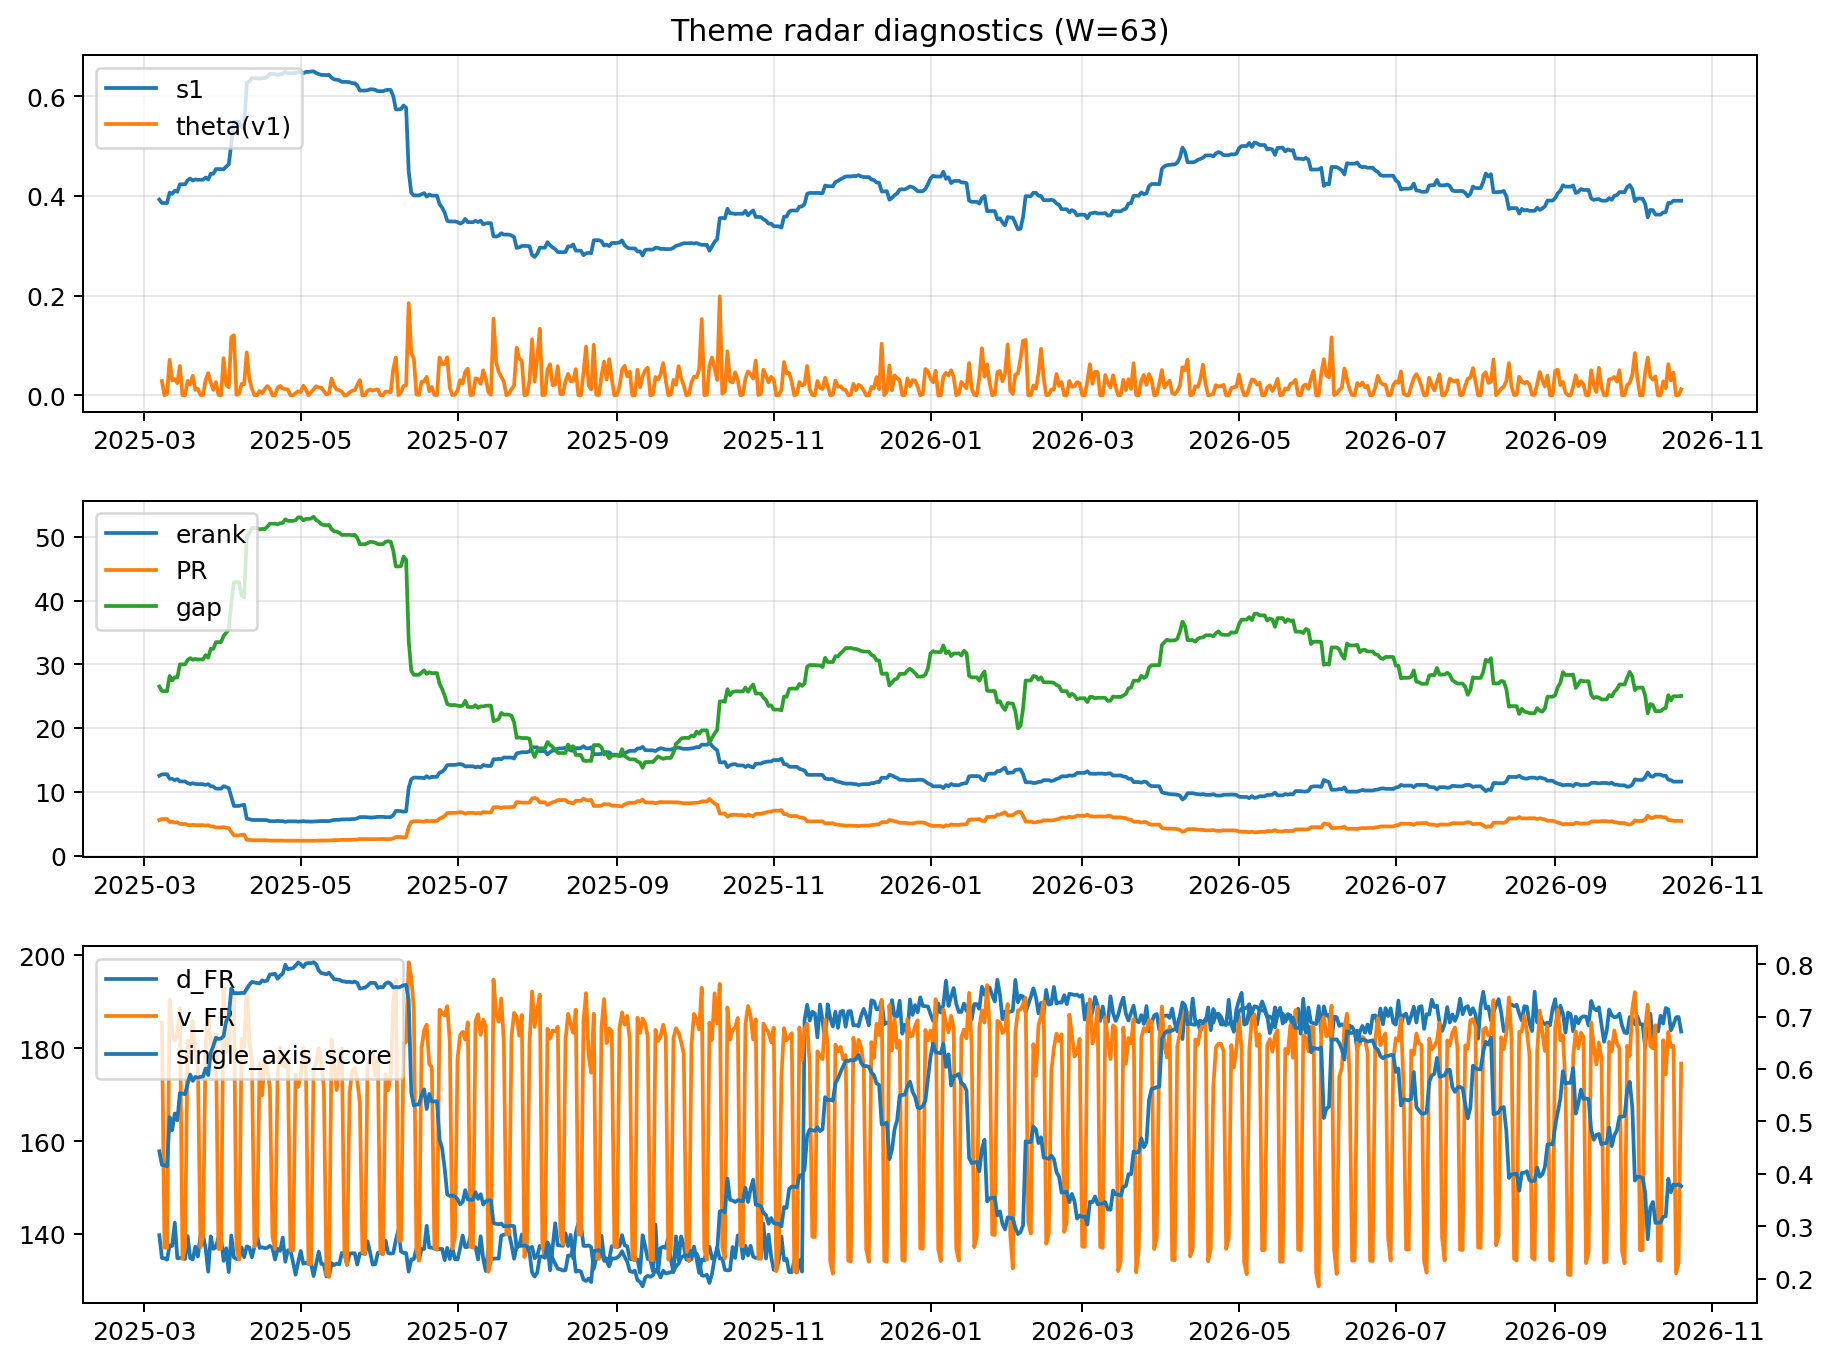
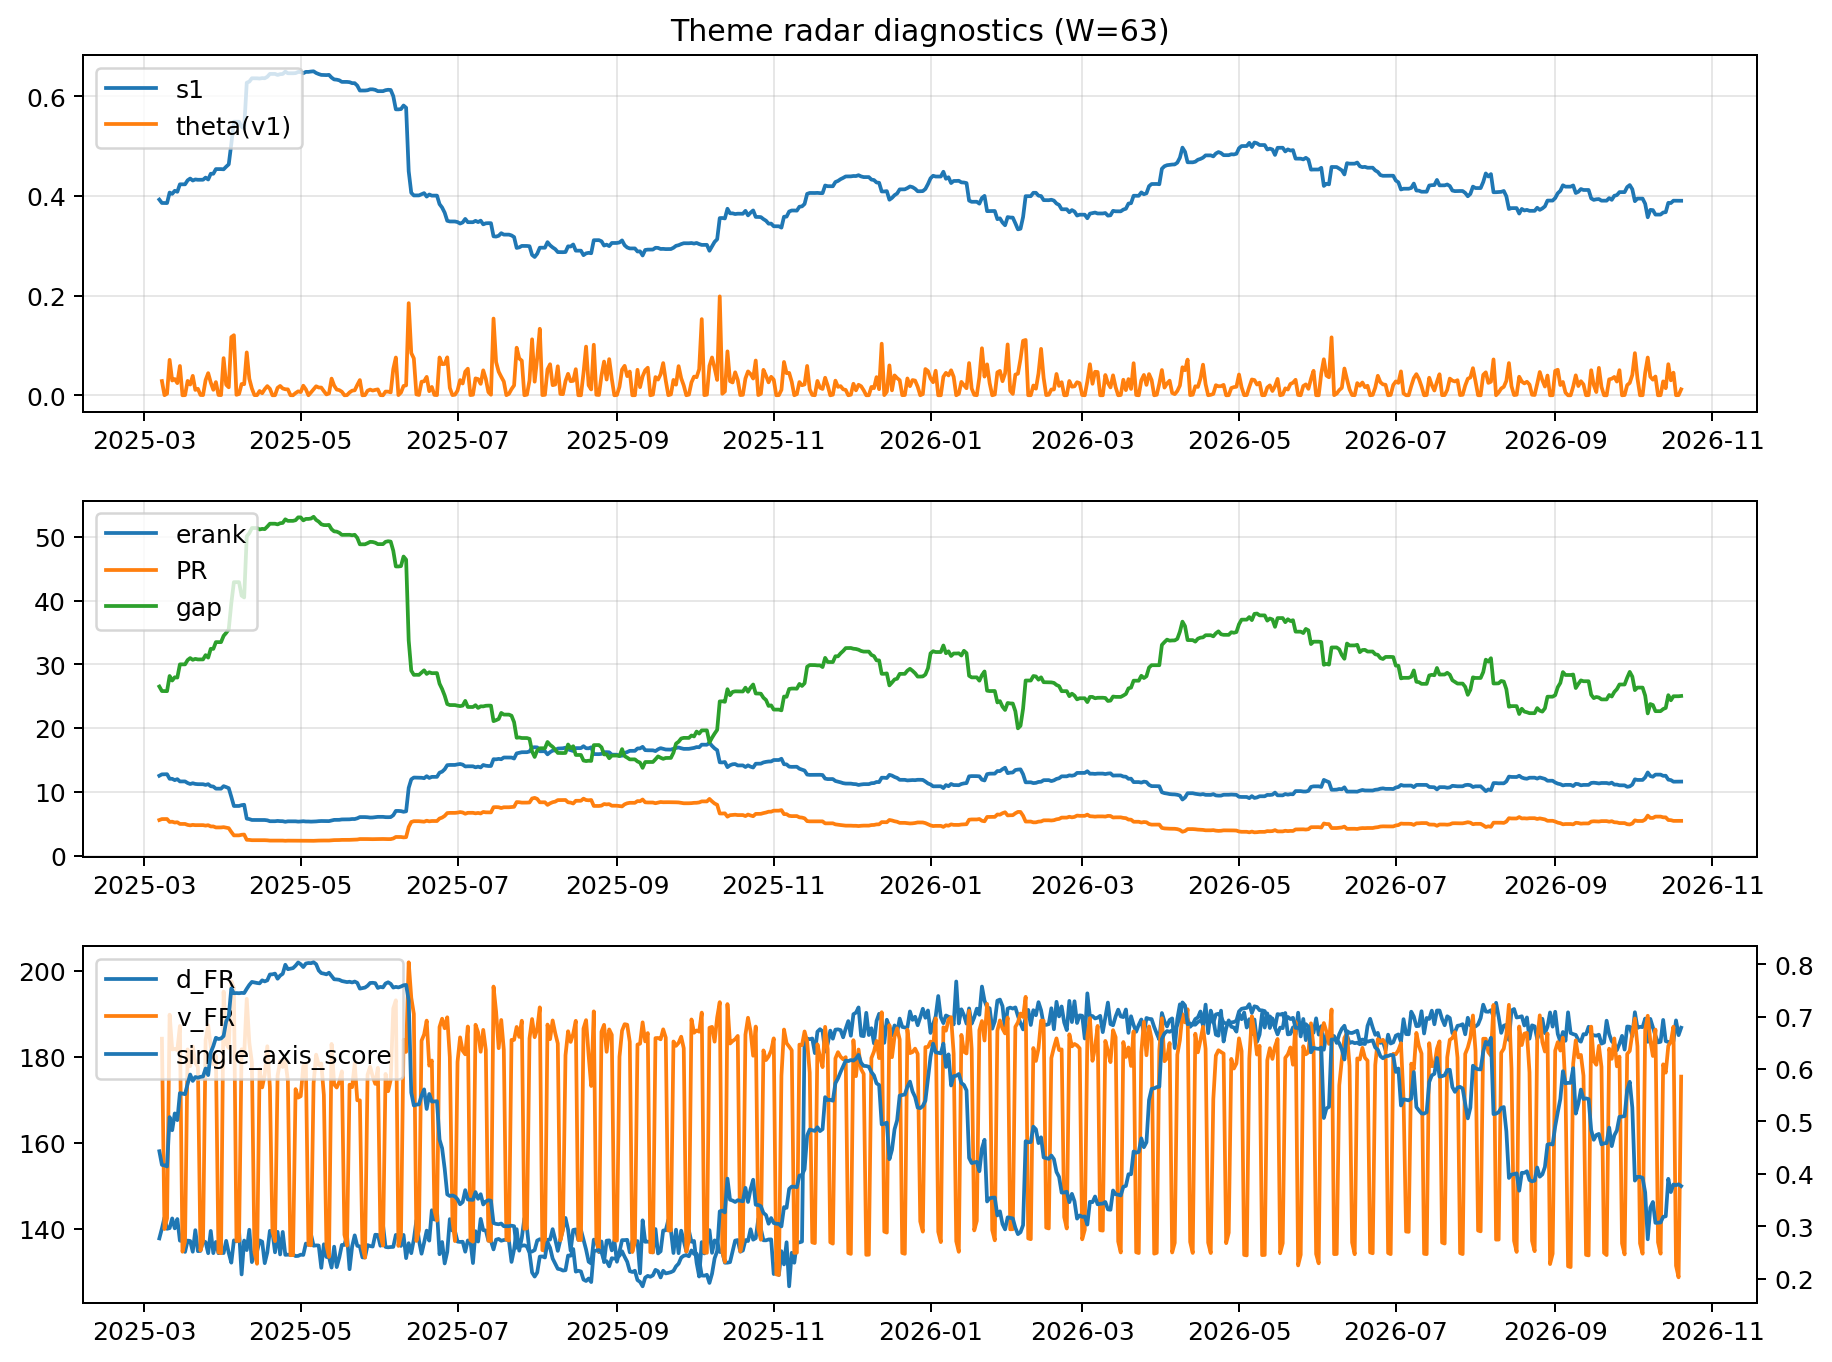
log: 2026-10-20 | sha256:7b3c6793c4cc78ce3ec2ef3704f2554aa9c348c4f79ab8059096acc7f2905d23

diff --git a/logs/2026-10-20.md b/logs/2026-10-20.md
@@ -3,43 +3,43 @@
 ![diagnostic W63](../assets/diagnostic/2026-10-20_W63.png)
 
 ## Leaders (v1) — W=63
-- **Nuclear_Uranium** (0.0786544549868474)
-- Semis (0.0622281752351438)
-- Quantum (0.056463836731118)
+- **Nuclear_Uranium** (0.0786544498070227)
+- Semis (0.0622281739268423)
+- Quantum (0.0564638347912455)
 
 ## Challengers — W=63
-**v2:** Semis (0.1019851087582796), Rates (0.0948903719796878), Genomics_Bio (0.0743713663167082)
-**v3:** Software_Cloud (0.1019301561983179), Cyber (0.066897464650994), DataCenter_Infra (0.0603501316386341)
+**v2:** Semis (0.1019850963588478), Rates (0.0948904879011602), Genomics_Bio (0.0743712603051718)
+**v3:** Software_Cloud (0.1019301364562852), Cyber (0.0668974534511217), DataCenter_Infra (0.0603501492628282)
 
 ## Migration (20D slope) — W=63
 **Top risers:**
-- axis_MegaCap_AI: 0.0006366080108786
-- axis_Crypto: 0.000570671796434
-- axis_Metals: 0.0003556364182466
-- axis_Sector_ConsStap: 0.0002566090763169
-- axis_Cyber: 0.0002290431514254
-- axis_DataCenter_Infra: 0.0001873318813838
-- axis_Vol: 0.0001827335312641
-- axis_Nuclear_Uranium: 0.0001799874411291
-- axis_Critical_Minerals: 0.0001582913655783
-- axis_Grid_Power: 0.0001519295073808
+- axis_MegaCap_AI: 0.0006366079986371
+- axis_Crypto: 0.0005706717141649
+- axis_Metals: 0.0003556366933494
+- axis_Sector_ConsStap: 0.0002566091370632
+- axis_Cyber: 0.0002290430479991
+- axis_DataCenter_Infra: 0.0001873318171408
+- axis_Vol: 0.0001827334876315
+- axis_Nuclear_Uranium: 0.0001799875571016
+- axis_Critical_Minerals: 0.000158291618797
+- axis_Grid_Power: 0.0001519295983208
 
 **Top fallers:**
-- axis_Equity_US: -7.541543094324986e-05
-- axis_Drones_Autonomy: -9.418497148192746e-05
-- axis_Quantum: -9.582834067923864e-05
-- axis_Space: -0.0001061041465164
-- axis_Sector_Materials: -0.0001063286549512
-- axis_Defense: -0.0002515249757316
-- axis_Credit: -0.0003027210366177
-- axis_Commodities: -0.0003309117392413
-- axis_Genomics_Bio: -0.0004065518961476
-- axis_Rates: -0.0010542162237191
+- axis_Equity_US: -7.541563182383015e-05
+- axis_Drones_Autonomy: -9.418476840343836e-05
+- axis_Quantum: -9.58280286839236e-05
+- axis_Space: -0.0001061040605158
+- axis_Sector_Materials: -0.0001063285649666
+- axis_Defense: -0.0002515248476861
+- axis_Credit: -0.0003027224248837
+- axis_Commodities: -0.0003309119472257
+- axis_Genomics_Bio: -0.0004065518092383
+- axis_Rates: -0.0010542151402057
 
 ## Risk line (W=63)
-- s1: 0.3902431538969533
-- theta_v1: 0.0119900374906166
-- v_FR: 176.72218619697728
+- s1: 0.3902431441161759
+- theta_v1: 0.0119900475212743
+- v_FR: 175.39728492393948
 - single_axis_score: 0.3767284991568296
 
 ## Interpretation
@@ -48,7 +48,7 @@
 - Action: Tomorrow watchlist: MegaCap_AI, Crypto, Metals, Sector_ConsStap, Cyber + v2_top1=Semis
 - Action: Hedge note: normal correlation stability.
 
-- Percentiles (W=63 history): vfr_pct=0.36, theta_pct=0.37, s1_pct=0.38, score_pct=0.32.
+- Percentiles (W=63 history): vfr_pct=0.33, theta_pct=0.37, s1_pct=0.38, score_pct=0.32.
 
 ---
[2 lines of base64/hex data omitted]
